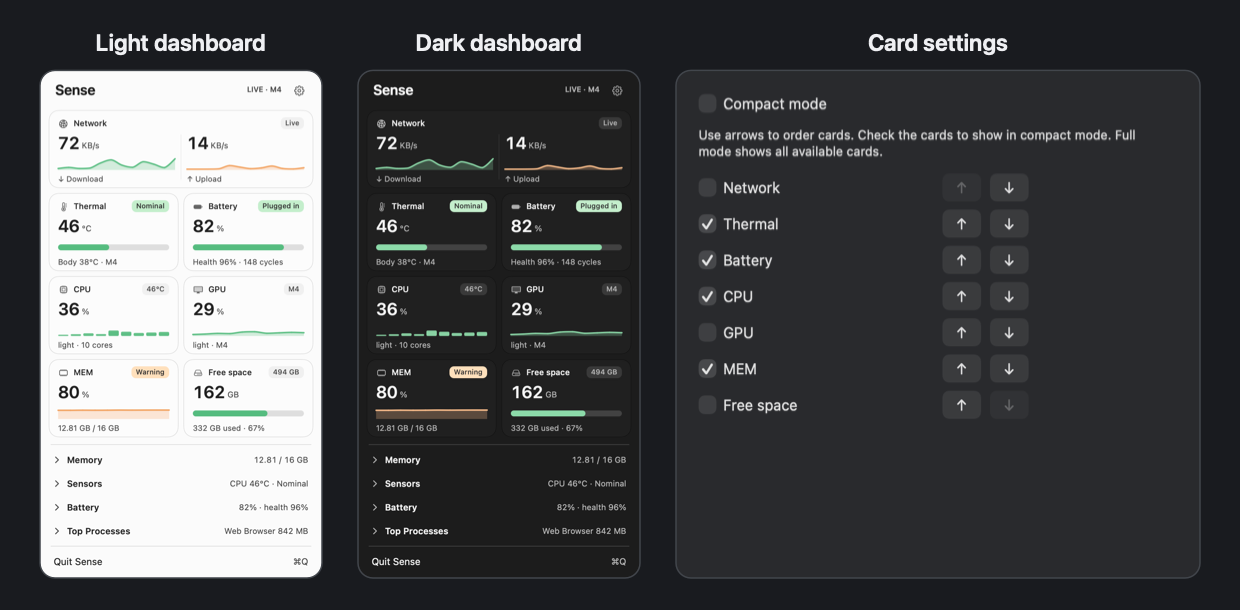
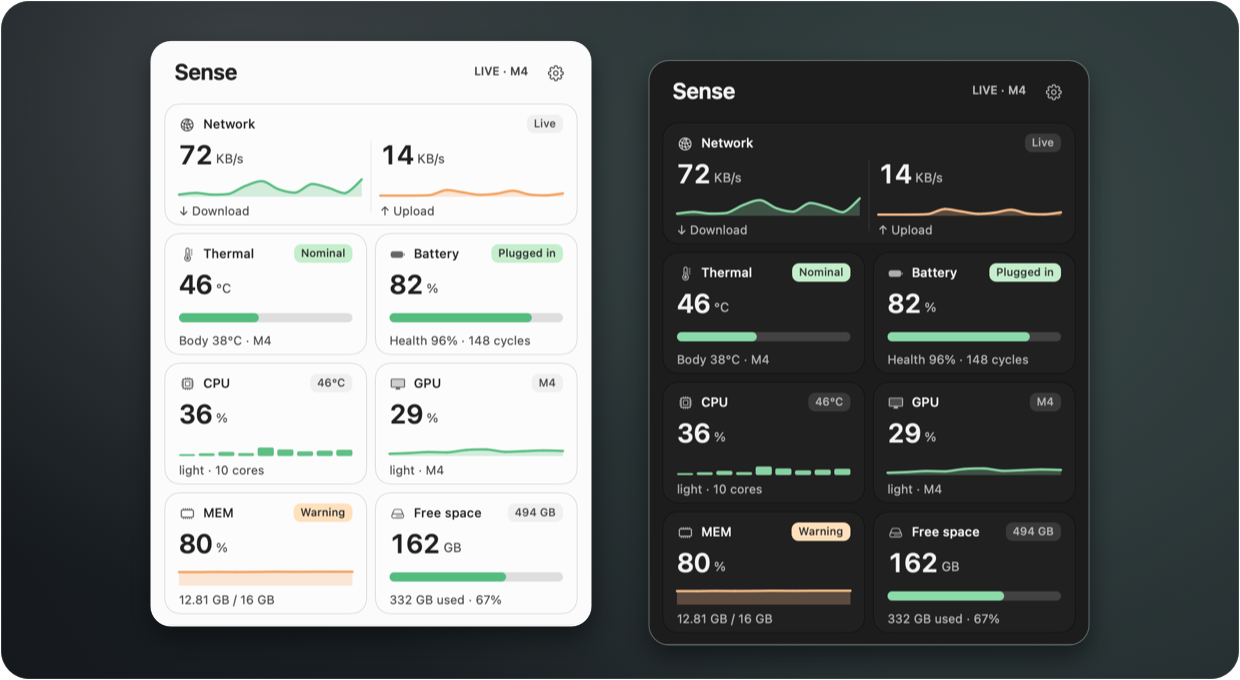
Refine the Sense README showcase

diff --git a/README.md b/README.md
@@ -1,31 +1,28 @@
 <p align="center">
-  <img src="assets/Sense-icon.png" alt="Sense app icon" width="112">
+  <img src="assets/Sense-icon.png" alt="Sense app icon" width="96">
 </p>
 
 <h1 align="center">Sense</h1>
 
 <p align="center">
-  Live system readings and recent activity charts, one click away in your Mac’s menu bar.
+  Live system monitoring from your Mac’s menu bar.
 </p>
 
 <p align="center">
   <a href="#install">Install</a> ·
   <a href="#use-sense">Use Sense</a> ·
-  <a href="#troubleshooting">Troubleshooting</a> ·
-  <a href="#build-and-test">Build and test</a>
+  <a href="#troubleshooting">Troubleshooting</a>
 </p>
 
 <p align="center">
-  <img src="previews/Sense-overview.png" alt="Sense development preview showing the light dashboard, dark dashboard, and card settings" width="880">
+  <img src="previews/Sense-overview.png" alt="Sense’s light and dark dashboards, showing live readings and recent activity charts" width="860">
 </p>
 
 <p align="center">
-  <a href="previews/Sense-light.png">Light dashboard</a> ·
-  <a href="previews/Sense-dark.png">Dark dashboard</a> ·
-  <a href="previews/Sense-settings.png">Settings</a>
+  <sub>Development preview with sample readings ·
+  <a href="previews/Sense-light.png">Light mode</a> ·
+  <a href="previews/Sense-dark.png">Dark mode</a></sub>
 </p>
-
-<p align="center"><sub>Development preview with sample readings.</sub></p>
 
 ## Install
 
@@ -42,7 +39,7 @@ open dist/Sense.app
 
 1. Click the Sense icon in the menu bar to see CPU, GPU, memory, storage, network, temperature, and battery readings.
 2. Hover over a chart to inspect a sample. Expand **Memory**, **Sensors**, **Battery**, or **Top Processes** for details.
-3. Open **Settings** using the gear icon to choose a history window, rearrange cards, turn on Compact mode, or configure alerts.
+3. Open **Settings** using the gear icon to choose a history window, rearrange cards, turn on Compact mode, or configure alerts. [Card settings preview](previews/Sense-settings.png)
 
 Sense keeps readings and history on your Mac. The dashboard follows your system appearance and uses native Liquid Glass on macOS 26 and later.
 
